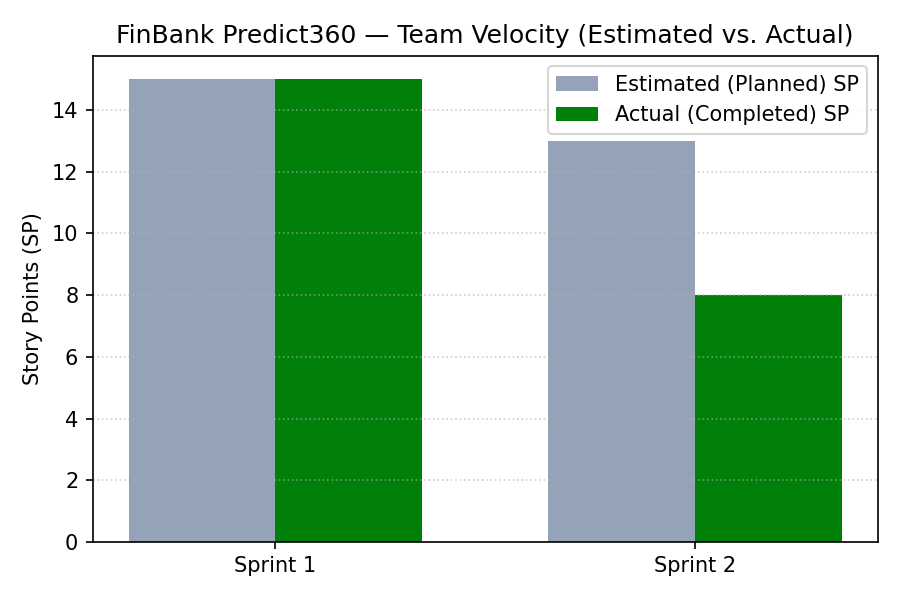
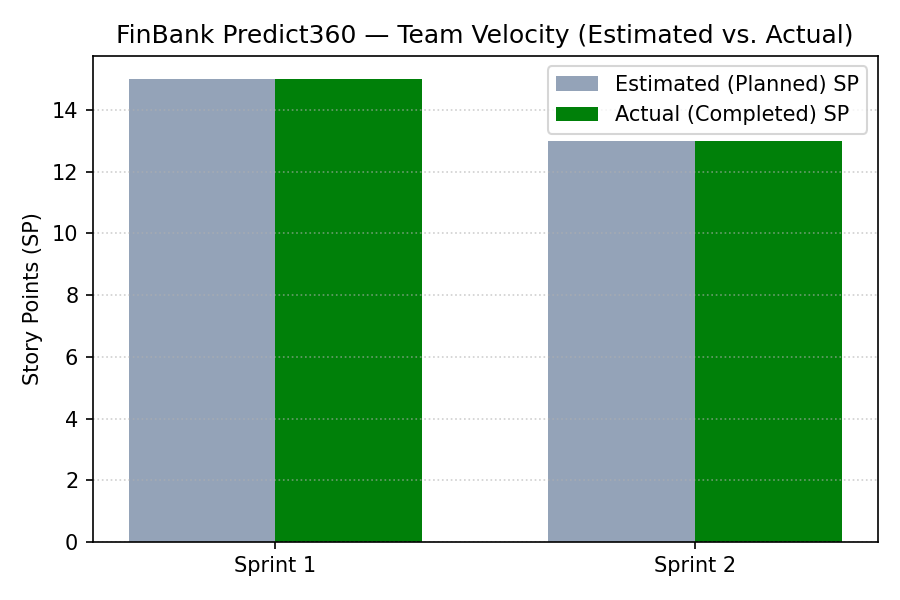
docs(sprint-2): add pairing/CI screenshots, retro_sprint2, xp_log and sprint 2 metrics charts

Changed region(s): [[0.7467, 0.21, 0.9333, 0.51]]

diff --git a/tests/test_exposure.py b/tests/test_exposure.py
@@ -66,3 +66,34 @@ def test_export_creates_markdown_file_with_table(tmp_path):
 def test_missing_columns_raise_value_error():
     with pytest.raises(ValueError):
         prioritize_backlog(pd.DataFrame([{"story_id": "US-01"}]))
+
+
+# --- Refactor (XP-04): nuevas pruebas escritas antes del cambio (TDD) ---
+
+def test_exposure_type_is_derived_when_column_is_absent():
+    """Without exposure_type, positive exposure -> direct and zero exposure -> enabling."""
+    sample = pd.DataFrame([
+        {"story_id": "US-01", "exposure_cop_m": 0.0, "sp": 2},
+        {"story_id": "US-04-P1", "exposure_cop_m": 58800.0, "sp": 5},
+    ])
+    ordered = prioritize_backlog(sample).set_index("story_id")
+    assert ordered.loc["US-04-P1", "exposure_type"] == "direct"
+    assert ordered.loc["US-01", "exposure_type"] == "enabling"
+    assert ordered.loc["US-04-P1", "priority_tier"] == "Risk-Bearing"
+
+
+def test_export_reports_raw_sum_computed_from_data(tmp_path):
+    """The raw (double-counted) total must come from the data, not be hardcoded."""
+    csv_path = tmp_path / "backlog.csv"
+    md_path = tmp_path / "backlog_prioritization.md"
+    pd.DataFrame([
+        {"story_id": "US-03-P1", "title": "Data gate", "domain": "Data", "exposure_type": "umbrella", "exposure_cop_m": 77000.0, "sp": 5, "sprint": 1},
+        {"story_id": "US-04-P1", "title": "EarlyRisk", "domain": "Credit", "exposure_type": "direct", "exposure_cop_m": 58800.0, "sp": 5, "sprint": 2},
+        {"story_id": "US-05", "title": "StayBank", "domain": "Churn", "exposure_type": "direct", "exposure_cop_m": 18200.0, "sp": 8, "sprint": 3},
+    ]).to_csv(csv_path, index=False)
+
+    export_prioritized_backlog(backlog_csv=csv_path, out_md=md_path)
+
+    content = md_path.read_text(encoding="utf-8")
+    assert "COP 154,000.0M raw sum" in content
+    assert "231,000" not in content

diff --git a/docs/retro_sprint2.md b/docs/retro_sprint2.md
@@ -1,0 +1,34 @@
+# Sprint 2 Retrospective — PCM Analytics (FinBank Predict360)
+
+- **Date:** 2026-10-15
+- **Participants:** Cristian Vega, Paula Gacha, Marco Jimenez
+- **Format:** Start / Stop / Continue
+
+## Sprint 2 in numbers
+- **Planned:** 13 SP (US-03 P2, US-04 P1, US-07).
+- **Completed:** 13 SP (100%) — see `reports/figures/velocity_comparison.png` and `burndown_sprint2.png` (generated from `docs/sprint_log.csv`).
+
+## What went well / Continue
+- **Fixed Pair Programming commit attribution from Sprint 1:** In Sprint 1 we were not properly formatting `Co-authored-by:` trailers (or used unverified emails), which left pairing sessions without automatic GitHub attribution. In Sprint 2 we standardized `Co-authored-by:` commit trailers using each teammate's exact Git email (`git log --format="%an <%ae>"`), ensuring verifiable co-authored hashes in GitHub and `docs/xp_log.md`.
+- `reconcile.py` (US-04 P1) built with TDD and pairing; the synthetic delinquency exposure reconciles to COP 58,800.00M (difference 0.000000M, PASS).
+- Ley 1581 gap report produced with 7 gaps, priorities and an action plan, clearly stating it is not a legal opinion about FinBank.
+- Refactors done in their own branches (`refactor/exposure-simple-design`) with tests kept green and co-authored commits properly recorded.
+
+## What did not work / Stop
+- Reporting numbers typed by hand: the backlog report said COP 231,000M raw sum while the data sums to COP 289,800M. Found during the `exposure.py` refactor.
+- The report text said "ranked by efficiency" while the code ranks by exposure first. Documentation and code drifted apart.
+- Typos and unclear English in documents (planning minutes, gap report) because documents were not peer-reviewed like code.
+- Story ownership concentrated in one person: 8 of the 13 SP in Sprint 2 were owned by Paula.
+
+## What to try / Start
+- Derive every reported figure from the data (no hardcoded totals).
+- Review documents in PRs with the same rigor as code, including verifying `Co-authored-by:` trailers on paired commits before merging.
+- Balance story ownership across the three roles in Sprint 3.
+- Keep `sprint_log.csv` and the Trello board consistent before each Sprint Review.
+
+## Action items
+| Action | Owner | Due |
+| :--- | :--- | :--- |
+| Peer-review documentation and verify `Co-authored-by:` trailers in every PR | Whole team | Sprint 3 |
+| Balance story ownership in Sprint 3 Planning | Cristian Vega | Sprint 3 |
+| Check `sprint_log.csv` against the board before each review | Marco Jimenez | Sprint 3 |

diff --git a/docs/xp_log.md b/docs/xp_log.md
@@ -8,7 +8,7 @@ Traceability record of the 4 *Extreme Programming (XP)* engineering practices ex
 | 1 | Sprint 1 | `sprint_metrics.py` (US-06) | Marco Jimenez | Cristian Vega | *[screenshot in `docs/pairing/Screenshot 2026-10-14 122517.png`]* |
 | 2 | Sprint 1 | `quality.py` (US-03 P1) | Paula Gacha | Marco Jimenez | *[screenshot in `docs/pairing/us04_pairing_teams.png`]* |
 | 3 | Sprint 2 | `reconcile.py` (US-04 P1) | Paula Gacha | Marco Jimenez | `docs/pairing/us04_pairing_teams.png` (recorded in `c4ff7cc`); co-authored commits `e7939ea65a4bdacc43a51e0ff7300f9921122cd5`|
-| 4 | Sprint 2 | Refactor `exposure.py` (US-02 / XP-04) | Cristian Vega | *[Navigator]* | *[screenshot in `docs/pairing/`]* |
+| 4 | Sprint 2 | Refactor `exposure.py` (US-02 / XP-04) | Cristian Vega | Marco Jimenez | *[screenshot in `docs/pairing/pairingrefactor.png`]* |
 
 > Requirement: at least **two** documented sessions with a photo/screenshot or `Co-authored-by:` commits. Session 3 is complete. Add a screenshot for one more session, and delete any row that did not take place.
 
@@ -33,7 +33,7 @@ Traceability record of the 4 *Extreme Programming (XP)* engineering practices ex
 | #3 | `feature/us-03-data-quality` | US-03 P1 | Paula Gacha | Marco Jimenez | *merged* |
 | #4 | `feature/us-04-reconcile-baseline` | US-04 P1 | Paula Gacha | Cristian Vega | *merged* |
 | #5 | `refactor/quality-simple-design` | US-03 / XP-04 | Paula Gacha | Cristian Vega | *merged*|
-
+| #6 | `refactor/quality-simple-design` | US-07| Marco Jimenez | Cristian Vega | *merged*|
 > Reviewer and CI columns come from each PR page on GitHub (Approved review and green check). No author approves their own PR.
 
 ## 4. Simple Design & Refactoring (Before vs. After)
